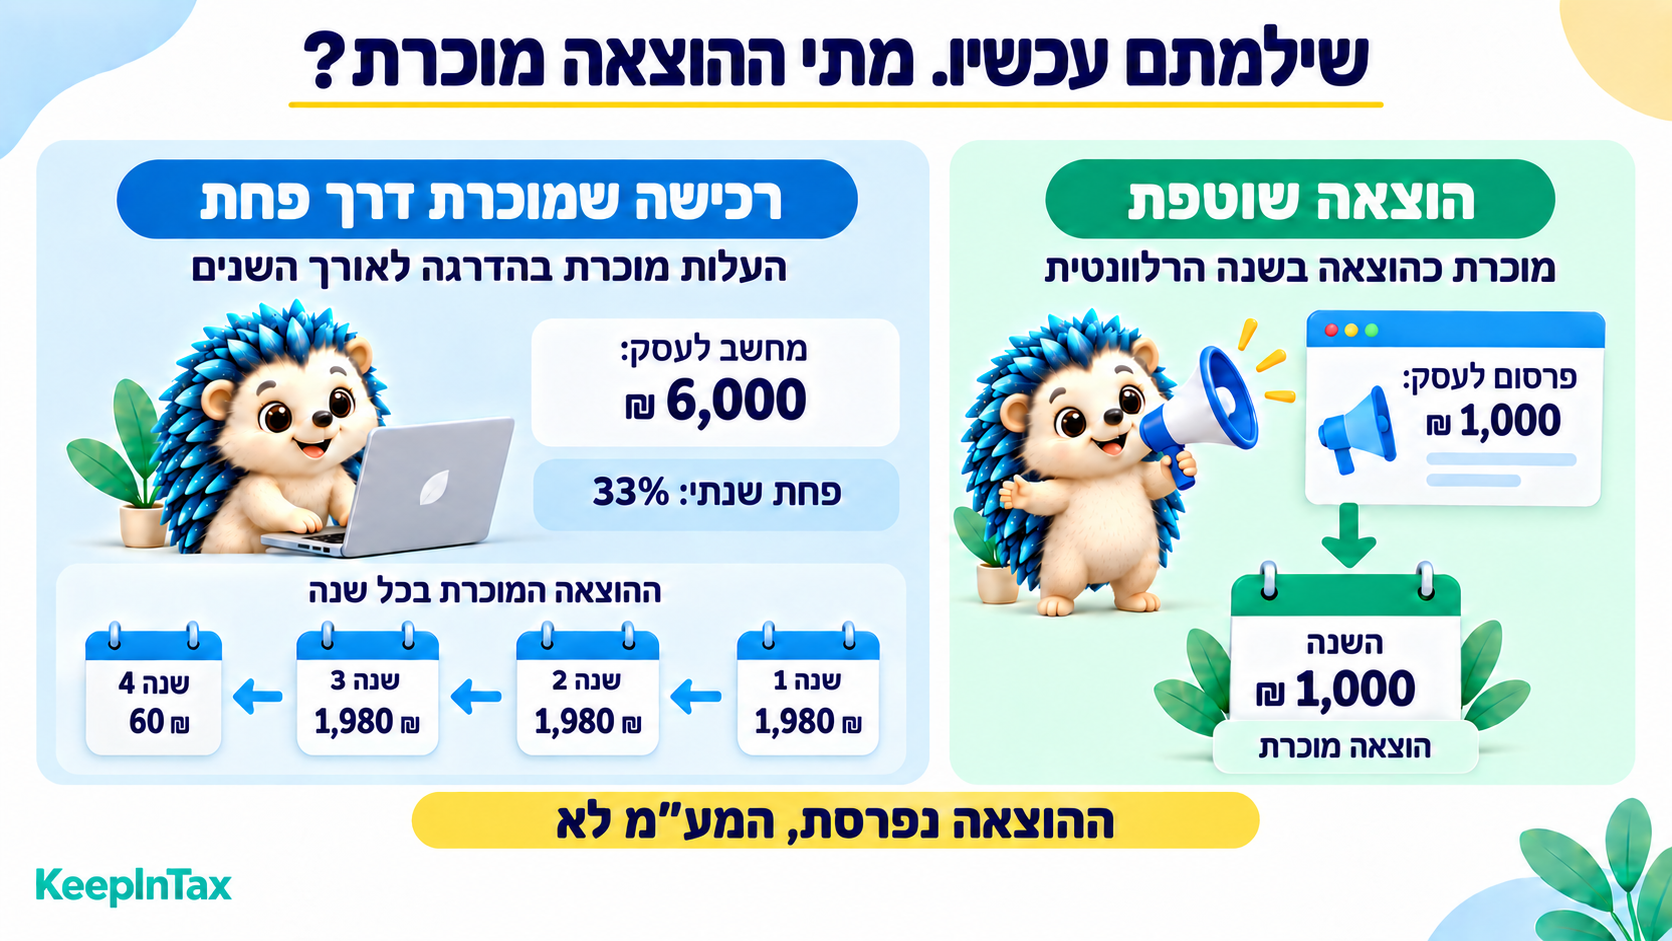
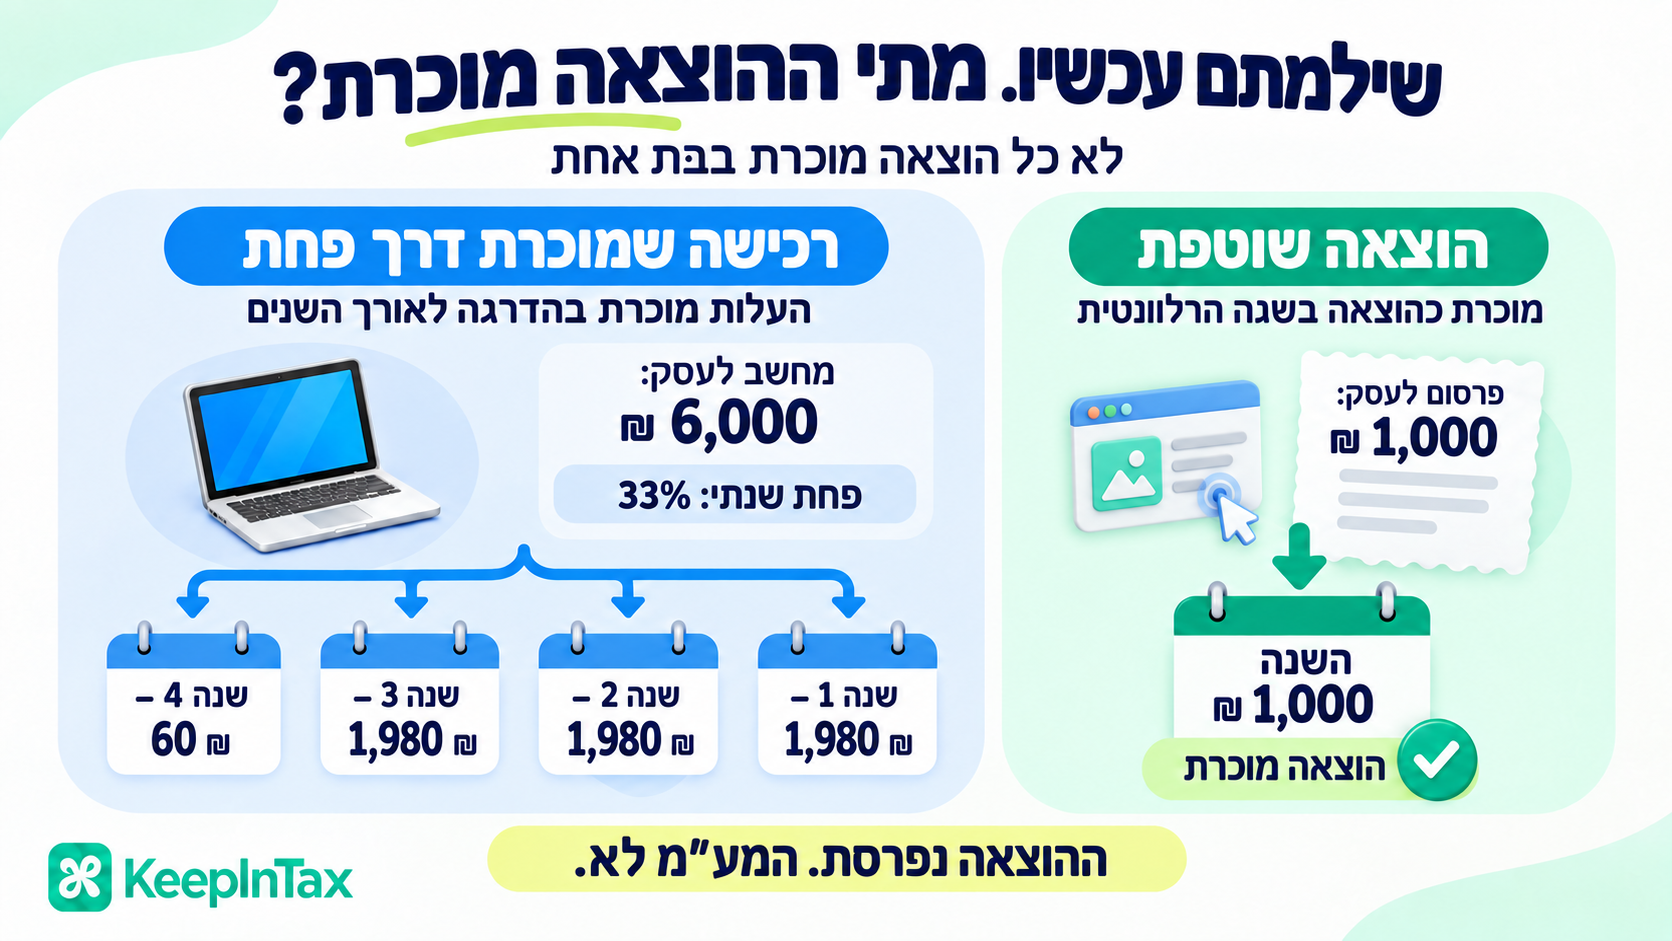
feat(guide): refresh expense teaching slides

diff --git a/frontend/src/app/pages/admin-panel/self-employed-guide.content.ts b/frontend/src/app/pages/admin-panel/self-employed-guide.content.ts
@@ -64,7 +64,7 @@ export const SELF_EMPLOYED_GUIDE_SLIDES: GuideSlide[] = [
   {
     id: 'expense-depreciation', layout: 'approved-artwork', title: 'שילמתם עכשיו. מתי ההוצאה מוכרת?',
     artwork: '/assets/self-employed-guide/expense-depreciation-approved.png',
-    artworkAlt: 'הוצאה שוטפת מול רכישה שמוכרת דרך פחת. פרסום לעסק ב-1,000 ₪ מוכר כהוצאה השנה. מחשב לעסק ב-6,000 ₪: פחת שנתי 33%, הוצאה מוכרת של 1,980 ₪ בכל אחת משלוש השנים הראשונות ויתרה של 60 ₪ בשנה הרביעית. ההוצאה נפרסת, המע״מ לא.',
+    artworkAlt: 'שילמתם עכשיו. מתי ההוצאה מוכרת? לא כל הוצאה מוכרת בבת אחת. הוצאה שוטפת: פרסום לעסק ב-1,000 ₪ מוכר כהוצאה השנה. רכישה שמוכרת דרך פחת: מחשב לעסק ב-6,000 ₪, פחת שנתי 33%, הוצאה מוכרת של 1,980 ₪ בכל אחת משלוש השנים הראשונות ויתרה של 60 ₪ בשנה הרביעית. ההוצאה נפרסת. המע״מ לא.',
   },
   {
     id: 'pension', layout: 'approved-artwork', title: 'קרן פנסיה לעצמאים',
@@ -83,8 +83,10 @@ export const SELF_EMPLOYED_GUIDE_SLIDES: GuideSlide[] = [
     artworkAlt: 'קרן השתלמות לעצמאים. הטבה בהפקדה: הפקדה מוכרת מקטינה את ההכנסה החייבת במס. הטבה על הרווחים: פטור ממס על הרווחים עד תקרת ההפקדה המזכה. אחרי 6 שנים: אפשר למשוך לכל מטרה או להמשיך לחסוך.',
   },
   {
-    id: 'expense-principle', layout: 'expense-principle',
-    title: 'פחות רווח חייב. פחות מיסים.',
+    id: 'expense-principle', layout: 'approved-artwork',
+    title: 'מנצלים את כל ההוצאות שמגיעות לנו',
+    artwork: '/assets/self-employed-guide/expense-principle-approved.png',
+    artworkAlt: 'מנצלים את כל ההוצאות שמגיעות לנו. כל הוצאה מוכרת מקטינה את הרווח שעליו מחשבים מס. הוצאות מוכרות מובילות לפחות רווח חייב, פחות מס הכנסה ופחות ביטוח לאומי ובריאות כשיש חבות בתשלום. עוסק מורשה יכול גם לקזז מע״מ שמותר בניכוי. בעסק זעיר יש ניכוי קבוע של 30% מהמחזור במקום הוצאות בפועל.',
     sources: [{ label: 'קיזוז מס תשומות', url: 'https://www.gov.il/he/service/reporting-or-payment-of-vat-reports' }, { label: 'ניכוי במסלול עסק זעיר', url: figures.sources.microBusinessGuidance }],
   },
   { id: 'expense-savings', layout: 'expense-savings', title: 'כמה ההוצאה הזאת באמת שווה לכם?' },

diff --git a/frontend/src/app/pages/admin-panel/self-employed-guide.component.spec.ts b/frontend/src/app/pages/admin-panel/self-employed-guide.component.spec.ts
@@ -10,6 +10,10 @@ describe('SelfEmployedGuideComponent', () => {
     expect(component.slides[4].items?.every(item => item.description.includes('ביטוח לאומי'))).toBeTrue();
     expect(component.slides[2].title).toBe('כשאתם שכירים, המעסיק מטפל בהכל');
     expect(component.slides.map(s => s.id)).toEqual(['cover', 'basic-concepts', 'employee-payroll', 'business-types', 'income-tax-overview', 'status-comparison', 'micro-blockers', 'tax-authorities', 'learning-summary', 'practical-transition', 'income-documents', 'expense-principle', 'expense-depreciation', 'expense-savings', 'study-fund', 'study-comparison', 'pension', 'pension-tax-benefits', 'product-pain', 'product-solution']);
+    expect(component.slides[11].layout).toBe('approved-artwork');
+    expect(component.slides[11].title).toBe('מנצלים את כל ההוצאות שמגיעות לנו');
+    expect(component.slides[11].artwork).toBe('/assets/self-employed-guide/expense-principle-approved.png');
+    expect(component.slides[12].artwork).toBe('/assets/self-employed-guide/expense-depreciation-approved.png');
     component.previousSlide();
     expect(component.currentSlideIndex).toBe(0);
     for (let i = 0; i < 20; i++) component.nextSlide();

diff --git a/frontend/src/app/pages/admin-panel/AGENTS.md b/frontend/src/app/pages/admin-panel/AGENTS.md
@@ -18,6 +18,8 @@ Internal admin console (tabbed) for staff to manage clients dashboard, the unifi
 
 ## Main flows
 
+- Expense principle and depreciation are approved static artworks on main slides 12–13. `expense-principle` now uses the centered, character-free “מנצלים את כל ההוצאות שמגיעות לנו” visual with restrained mint/blue/lavender stages and no decorative lime rays. `expense-depreciation` uses the matching calmer two-panel visual, with a subtle digital-ad card instead of a megaphone and no character. Both use the existing contain renderer; the expense calculator remains native and unchanged on slide 14. Counts remain 20 main/31 total. Provenance and locked copy: `docs/marketing/expense-savings-slides.md` and `docs/marketing/expense-depreciation-slide.md`.
+
 - Main slides 10–11, immediately after the recap, are now the approved `practical-transition` artwork and a single `income-documents` artwork. They replace the separate exempt/authorized document slides, so counts remain 20 main/31 total and all chapter navigation is unchanged. Both PNGs are copied losslessly and rendered with contain. The combined document slide shows the exempt path (transaction account before payment, receipt on payment), the authorized cash-basis example (transaction account before payment, tax invoice-receipt on payment), and the framed tax-invoice-to-receipt path. No calculator, reporting rule, or tax model changed. Provenance and presenter boundaries: `docs/marketing/income-documents-slides.md`.
 
 - Expense principle/depreciation/calculator now occupy main slides 12–14 before study-fund and pension slides (15–18). Counts remain 20 main/31 total; hub and chapters unchanged. The native expense principle slide uses a single receipt → smaller taxable profit → lower tax/NI flow with a liability qualifier, concise VAT line and retained micro-route exception. No calculator or tax model changes. Typography/layout changes are scoped to principle mode.

diff --git a/docs/marketing/expense-savings-slides.md b/docs/marketing/expense-savings-slides.md
@@ -7,6 +7,18 @@ before/after profit and net-cost display; title is now “כמה ההוצאה ה
 
 ## Presentation
 
+### Approved principle artwork — 2026-10-05
+
+The native principle diagram is superseded by the approved character-free static
+artwork `exec-8d0b0deb-559f-4eca-8a5c-ab2b24af6771.png`, copied losslessly to
+`frontend/src/assets/self-employed-guide/expense-principle-approved.png` and
+rendered with contain. The title is “מנצלים את כל ההוצאות שמגיעות לנו”. The
+visible flow remains expense recognition → lower taxable profit → lower income
+tax and NI/health when a liability exists. The authorized-dealer VAT note and
+micro-business 30% route note remain visible. The final design is centered and
+restrained, without Kipi or decorative lime rays. The calculator and its model
+are unchanged.
+
 Main IDs `expense-principle`, `expense-savings` are slides 9/10; product pain and
 solution become 11/12. Authorities hub remains 8. Total distinct screens: 24.
 Native HTML/CSS, mint/lime/navy, receipt illustration, lower-profit bars, separate

diff --git a/docs/marketing/expense-depreciation-slide.md b/docs/marketing/expense-depreciation-slide.md
@@ -6,6 +6,13 @@ screens. No calculator, accounting, depreciation engine or backend changes.
 
 ## Locked artwork
 
+The current approved replacement is
+`exec-e1e6034e-ea65-499f-987d-ab1e97acbdcc.png`, copied losslessly to the same
+asset path. It supersedes the source below. The replacement keeps every amount
+and conclusion, removes Kipi, uses a calmer blue/green two-panel layout, and
+replaces the red megaphone with a subtle mint/blue digital-ad card. No native
+overlay, calculation, accounting or depreciation behavior changed.
+
 Source: `exec-793675f3-14e4-4e11-90b2-187ef70fadb4.png` in this conversation's
 generated-images folder. Copy byte-for-byte to
 `frontend/src/assets/self-employed-guide/expense-depreciation-approved.png`.
